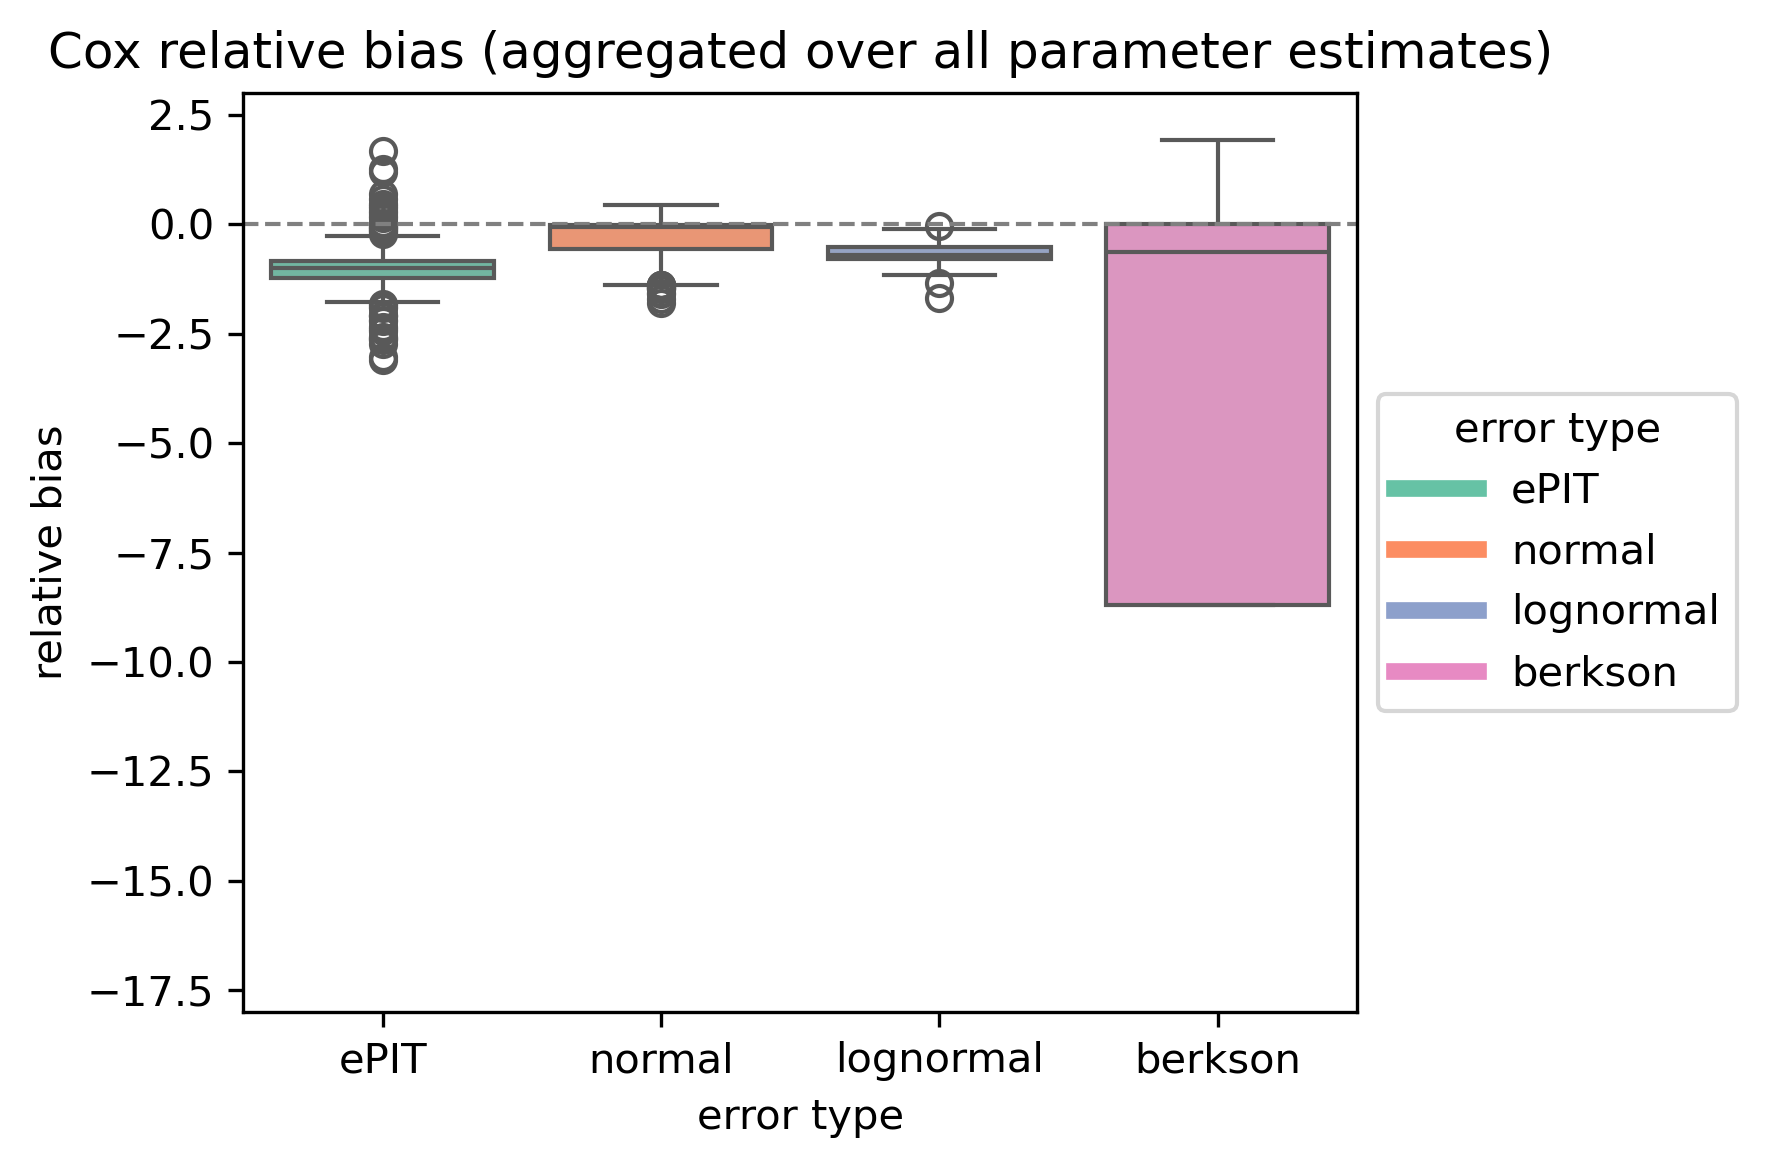
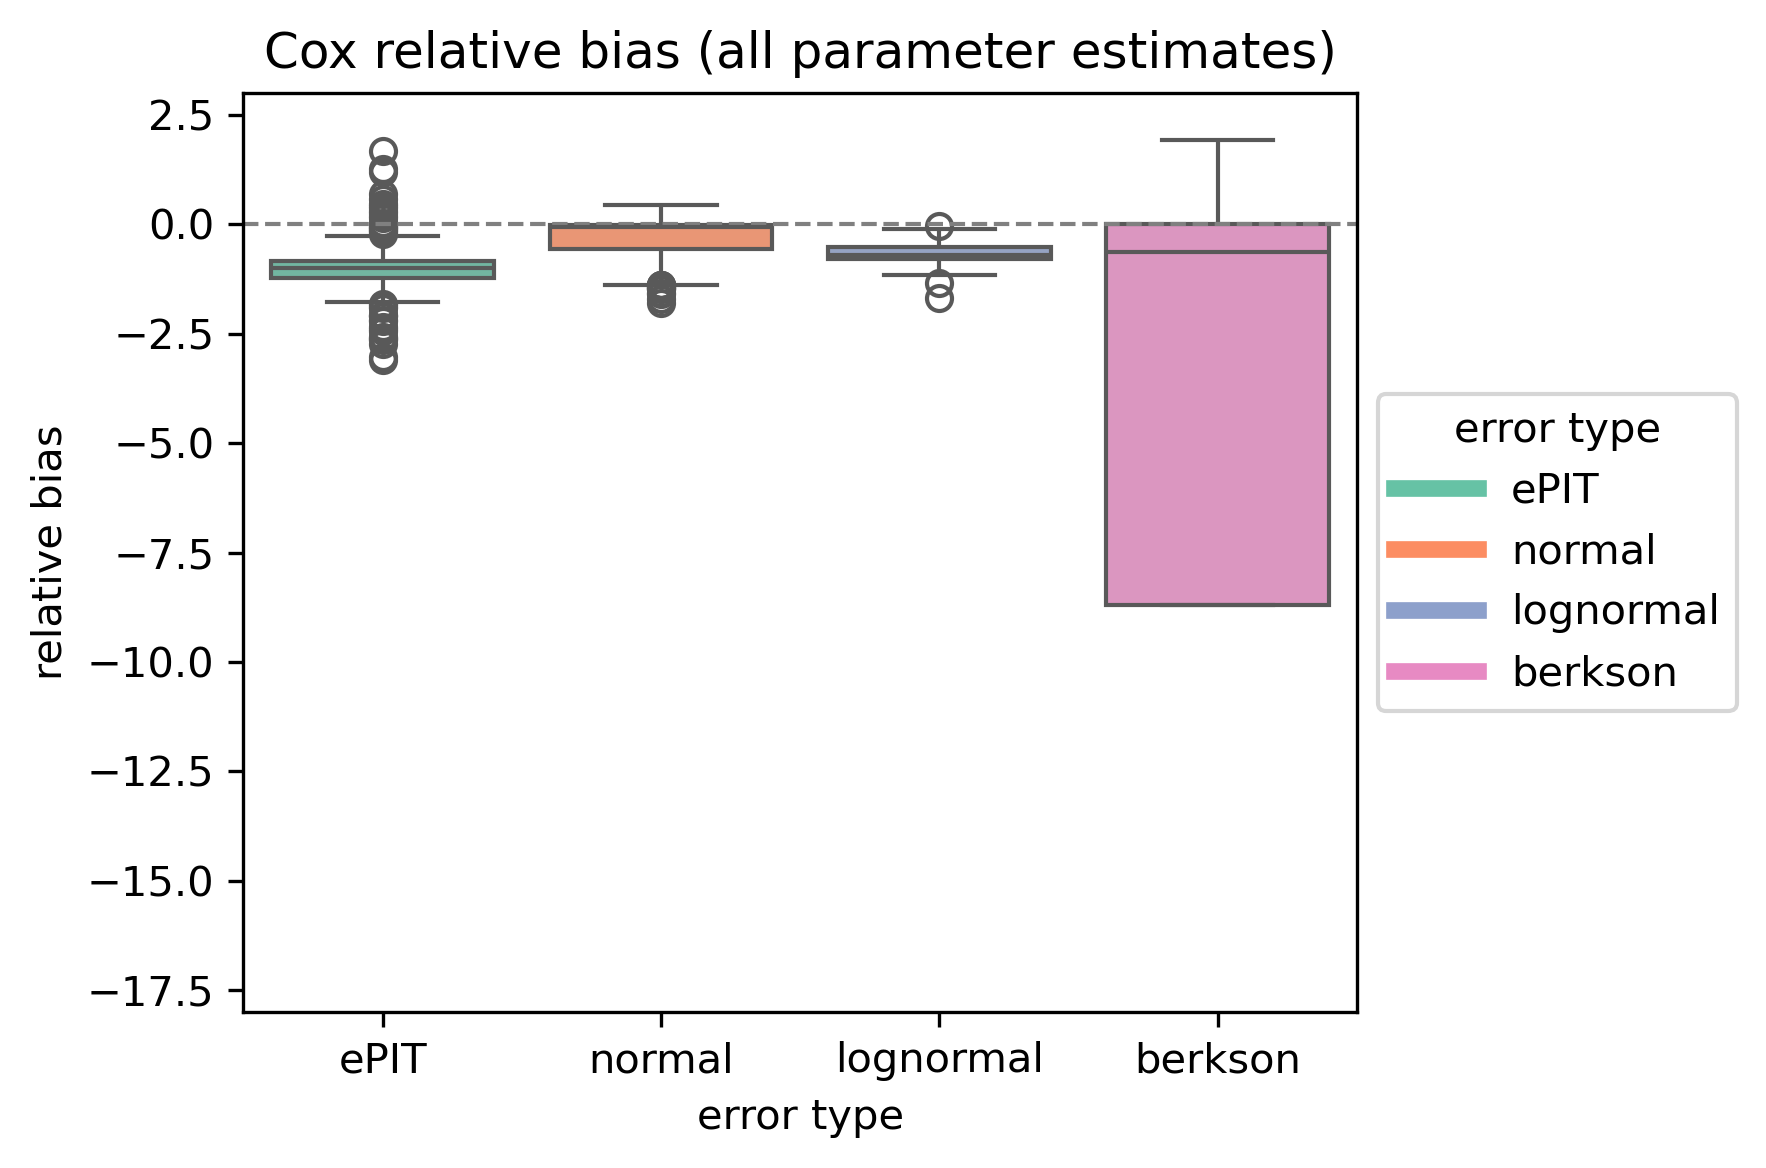
update aggregated bias plots

Changed region(s): [[0.0311, 0.0308, 0.872, 0.0616]]

diff --git a/code/error_evaluation_repls.py b/code/error_evaluation_repls.py
@@ -429,11 +429,11 @@ g_lm_facets.fig.savefig("../images/lm_rel_bias_facets.png", dpi=300, bbox_inches
 # %%
 # Aggregated boxplots
 plt.figure()
-plot_rel_bias_aggregated(cox_estimates_long, "Cox relative bias (aggregated over all parameter estimates)")
+plot_rel_bias_aggregated(cox_estimates_long, "Cox relative bias (all parameter estimates)")
 plt.savefig("../images/cox_rel_bias_aggregated.png", dpi=300, bbox_inches="tight")
 
 plt.figure()
-plot_rel_bias_aggregated(lm_estimates_long, "LM relative bias (aggregated over all parameter estimates)")
+plot_rel_bias_aggregated(lm_estimates_long, "LM relative bias (all parameter estimates)")
 plt.savefig("../images/lm_rel_bias_aggregated.png", dpi=300, bbox_inches="tight")
 
 
